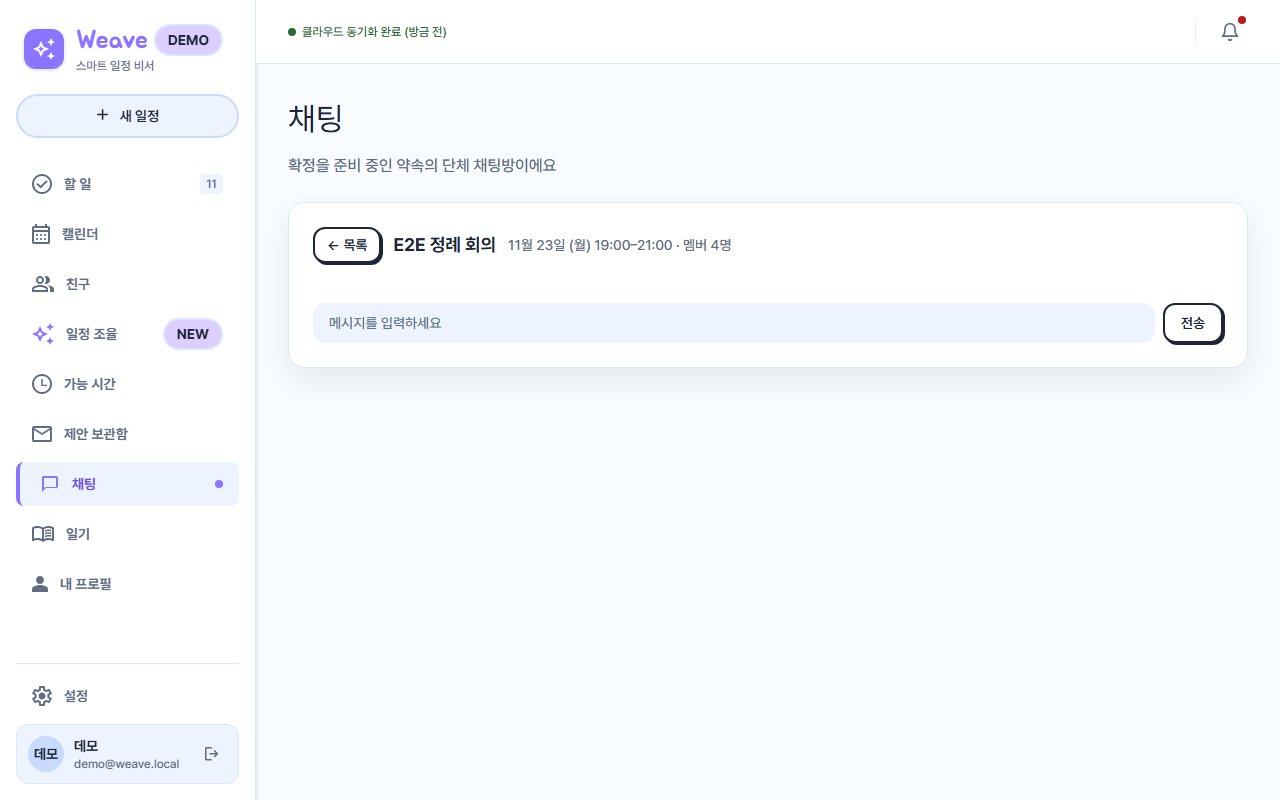
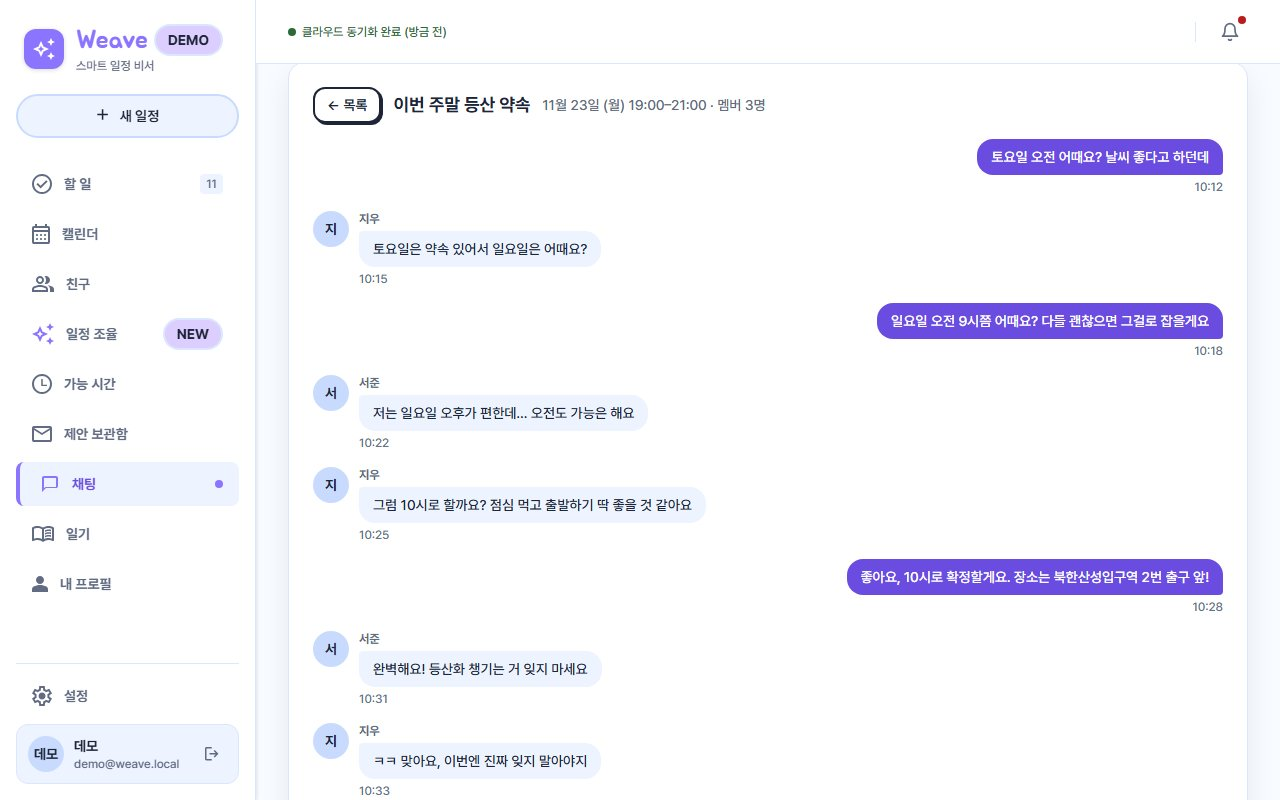
fix(scripts): 데모 로그인 셀렉터 button role 한정 + shot-chat 메시지 방 우선 선택 (#42)
- 랜딩 FAQ 본문이 "데모로 둘러보기" 문구를 인용하면서 get_by_text가
  strict mode violation으로 깨짐 — e2e_flow·e2e_scheduling_recurring·
  a11y_flow·check_preview·capture_landing_shots 5개 스크립트의
  데모 로그인 클릭을 get_by_role('button')로 한정 (snapshot_screens와 동일 패턴)
- capture_landing_shots prep_chat이 목록 첫 방을 무조건 클릭해
  메시지 없는 방이 마케팅 자산으로 저장되던 문제 — '메시지가 없'
  미리보기가 없는 방을 우선 선택하도록 수정, shot-chat.jpg 재캡처

diff --git a/scripts/capture_landing_shots.py b/scripts/capture_landing_shots.py
@@ -103,13 +103,19 @@ def prep_calendar(page):
 
 
 def prep_chat(page):
-    """첫 채팅방 진입 — 방이 없으면 목록 상태를 그대로 캡처한다."""
+    """메시지가 있는 채팅방 우선 진입 — 전부 비어 있으면 첫 방, 방이 없으면 목록 상태로 캡처한다."""
     try:
-        room = page.locator('main a[href^="/app/chat/"]').first
-        if room.count() == 0:
+        rooms = page.locator('main a[href^="/app/chat/"]')
+        if rooms.count() == 0:
             print('    chat: 채팅방 없음 — 목록 상태로 캡처')
             return
-        room.click()
+        target = rooms.first
+        for i in range(rooms.count()):
+            candidate = rooms.nth(i)
+            if '메시지가 없' not in candidate.inner_text():
+                target = candidate
+                break
+        target.click()
         page.wait_for_timeout(1500)
         print('    chat: 채팅방 상세 캡처')
     except PlaywrightTimeoutError as e:
@@ -142,7 +148,8 @@ def main():
             # 데모 로그인 — snapshot_screens.py와 동일 절차
             page.goto(args.base_url + '/login', wait_until='load')
             page.wait_for_timeout(800)
-            page.get_by_text(DEMO_LOGIN_TEXT).click()
+            # 랜딩 FAQ 본문에도 같은 문구가 있어 button role로 한정한다
+            page.get_by_role('button', name=DEMO_LOGIN_TEXT).click()
             page.wait_for_url('**/app**', timeout=15000)
             # 로그인 직후 refresh 회전이 끝나기 전에 이동·리로드하면 세션이 폐기된다
             page.get_by_text(BOOTING_TEXT).wait_for(state='hidden', timeout=15000)

diff --git a/scripts/check_preview.py b/scripts/check_preview.py
@@ -75,7 +75,7 @@ def main():
                 if '/login' in page.url or page.url.rstrip('/') == args.base_url:
                     page.goto(args.base_url + '/login', wait_until='load')
                     page.wait_for_timeout(800)
-                page.get_by_text(DEMO_LOGIN_TEXT).click()
+                page.get_by_role('button', name=DEMO_LOGIN_TEXT).click()
                 page.wait_for_url('**/app**', timeout=15000)
                 page.get_by_text(BOOTING_TEXT).wait_for(state='hidden', timeout=15000)
                 page.wait_for_timeout(2500)

diff --git a/scripts/a11y_flow.py b/scripts/a11y_flow.py
@@ -52,7 +52,7 @@ def main():
         # 로그인 → /app/todo
         page.goto(BASE + '/login', wait_until='load')
         page.wait_for_timeout(800)
-        page.get_by_text('데모로 둘러보기').click()
+        page.get_by_role('button', name='데모로 둘러보기').click()
         page.wait_for_url('**/app**', timeout=15000)
         page.get_by_text('세션을 복원하고 있어요').wait_for(state='hidden', timeout=15000)
         page.wait_for_timeout(1500)

diff --git a/scripts/e2e_flow.py b/scripts/e2e_flow.py
@@ -69,7 +69,7 @@ def main():
             # ② 데모 로그인
             page.goto(args.base_url + '/login', wait_until='load')
             page.wait_for_timeout(800)
-            page.get_by_text(DEMO_LOGIN_TEXT).click()
+            page.get_by_role('button', name=DEMO_LOGIN_TEXT).click()
             page.wait_for_url('**/app**', timeout=15000)
             page.get_by_text(BOOTING_TEXT).wait_for(state='hidden', timeout=15000)
             page.wait_for_timeout(2000)

diff --git a/scripts/e2e_scheduling_recurring.py b/scripts/e2e_scheduling_recurring.py
@@ -149,7 +149,7 @@ def main():
 
         page.goto(args.base_url + '/login', wait_until='load')
         page.wait_for_timeout(800)
-        page.get_by_text('데모로 둘러보기').click()
+        page.get_by_role('button', name='데모로 둘러보기').click()
         page.wait_for_url('**/app**', timeout=15000)
         page.get_by_text('세션을 복원하고 있어요').wait_for(state='hidden', timeout=15000)
         page.wait_for_timeout(1500)
